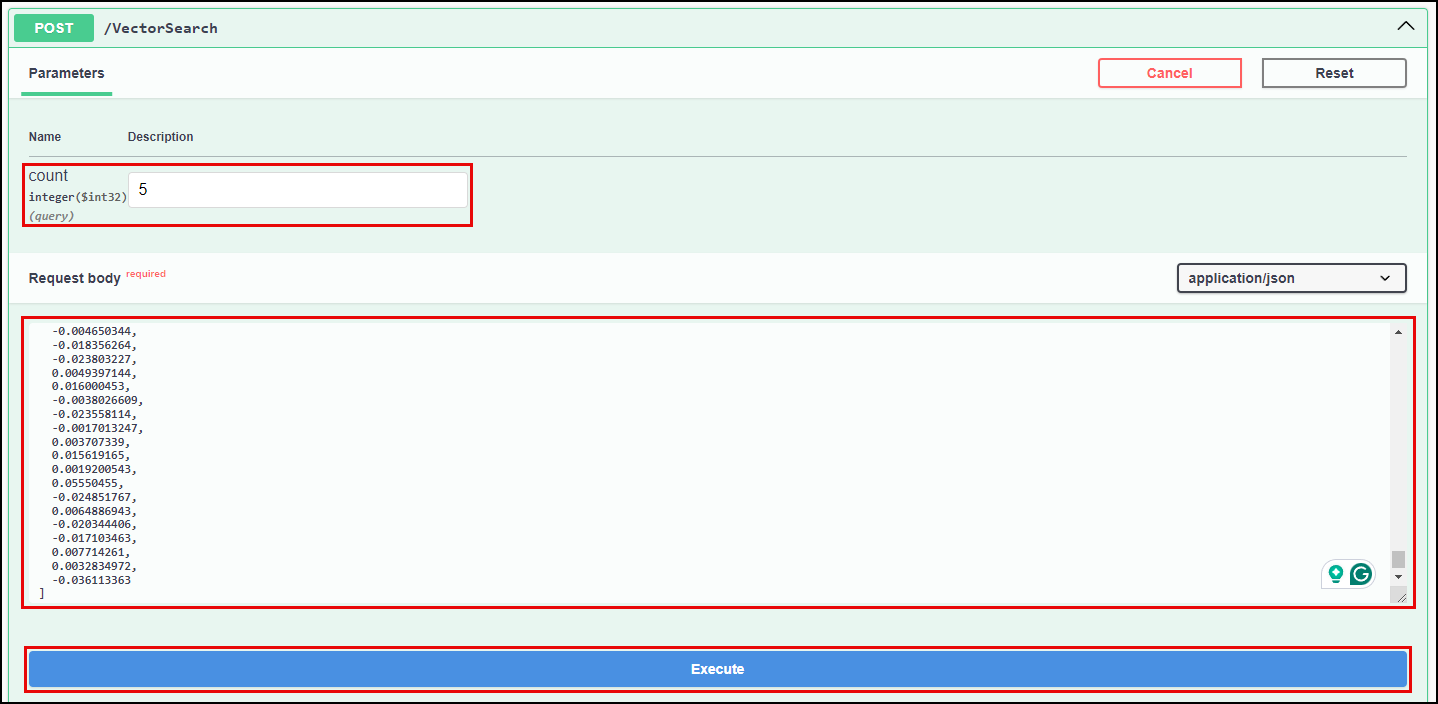
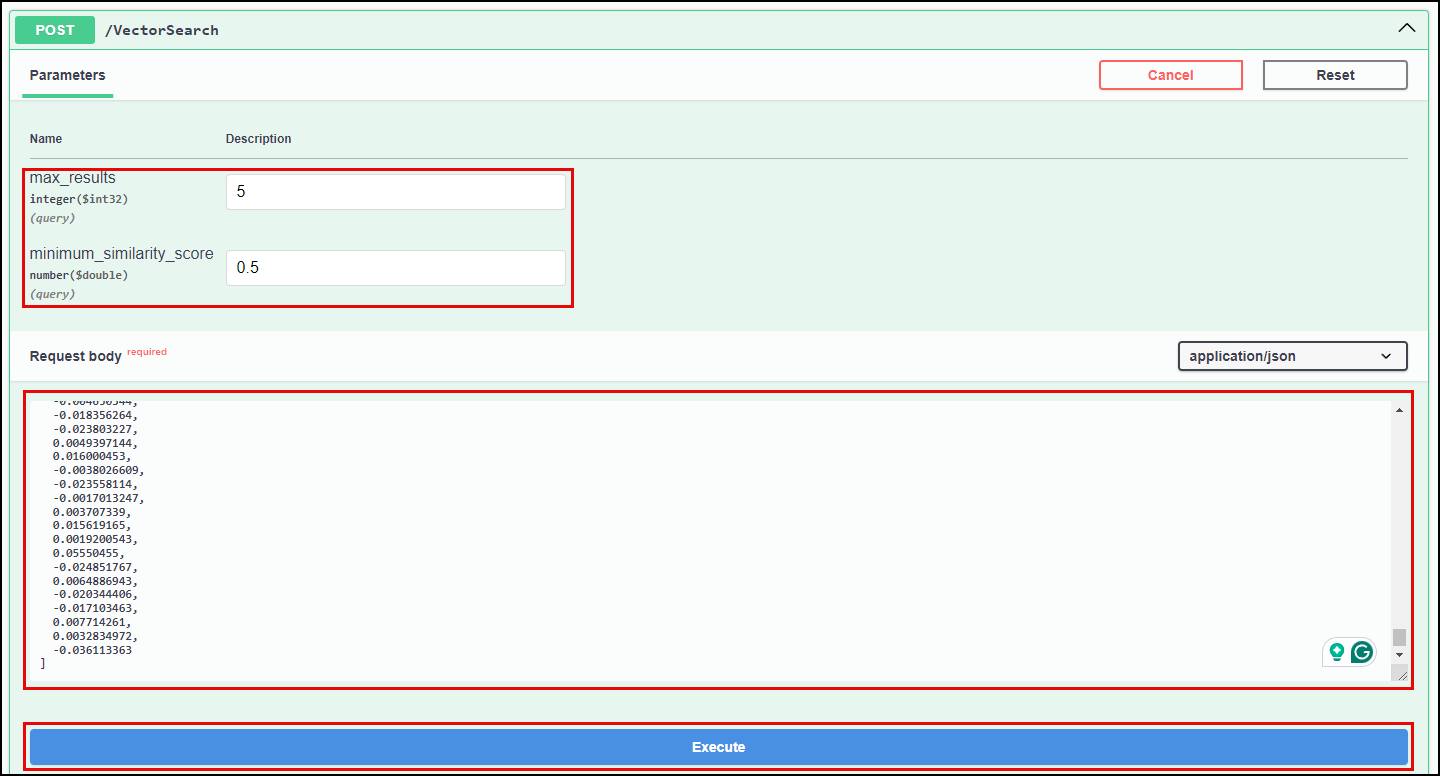
Updates to exercise 3 search screen and functionality

Changed region(s): [[0.0, 0.0, 1.0, 1.0]]

diff --git a/src/ContosoSuitesDashboard/pages/3_Vector_Search.py b/src/ContosoSuitesDashboard/pages/3_Vector_Search.py
@@ -9,11 +9,11 @@ def handle_query_vectorization(query):
     response = requests.get(f"{api_endpoint}/Vectorize", params={"text": query}, timeout=10, verify=False)
     return response.text
 
-def handle_vector_search(query_vector, count):
+def handle_vector_search(query_vector, max_results=5, minimum_similarity_score=0.8):
     """Perform a vector search using the VectorSearch endpoint."""
     api_endpoint = st.secrets["api"]["endpoint"]
     headers = {"Content-Type": "application/json"}
-    response = requests.post(f"{api_endpoint}/VectorSearch", data=query_vector, params={"count": count}, headers=headers, timeout=10, verify=False)
+    response = requests.post(f"{api_endpoint}/VectorSearch", data=query_vector, params={"max_results": max_results, "minimum_similarity_score": minimum_similarity_score}, headers=headers, timeout=10, verify=False)
     return response
 
 def main():
@@ -32,29 +32,30 @@ def main():
     )
 
     # Await a user message and handle the chat prompt when it comes in.
-    col1, col2, col3 = st.columns(3)
+    col1, col2 = st.columns(2)
 
     with col1:
         query = st.text_input("Search query:", key="query")
     with col2:
-        results_count = st.text_input("Number of results to return (0 will return all results):", key="results_count", value=0)
+        max_results = st.text_input("Max results (<=0 will return all results):", key="max_results", value=0)
+
+    minimum_similarity_score = st.slider("Minimum Similarity Score:", min_value=0.0, max_value=1.0, value=0.8, step=0.01)
     
     if st.button("Submit"):
         with st.spinner("Performing vector search..."):
             if query:
                 # Vectorize the query text.
                 # Exercise 3 Task 3 TODO #4: Get the vectorized query text by calling handle_query_vectorization.
-
+                
                 # Perform the vector search.
                 # Exercise 3 Task 3 TODO #5: Get the vector search results by calling handle_vector_search.
-
+                
                 # Display the results.
                 st.write("## Results")
                 # Exercise 3 Task 3 TODO #6: Display the results as a table.
-
+                
             else:
                 st.warning("Please enter a query.")
-
 
 if __name__ == "__main__":
     main()

diff --git a/src/ContosoSuitesWebAPI/Services/VectorizationService.cs b/src/ContosoSuitesWebAPI/Services/VectorizationService.cs
@@ -31,12 +31,13 @@ namespace ContosoSuitesWebAPI.Services
         }
 
         // Exercise 3 Task 3 TODO #2: Uncomment the following code block to execute a vector search query against Cosmos DB.
-        //public async Task<List<VectorSearchResult>> ExecuteVectorSearch(float[] queryVector, int count = 0)
+        //public async Task<List<VectorSearchResult>> ExecuteVectorSearch(float[] queryVector, int max_results = 0, double minimum_similarity_score = 0.8)
         //{
         //    var db = _cosmosCient.GetDatabase(configuration.GetValue<string>("COSMOS_DATABASE_NAME") ?? "ContosoSuites");
         //    var container = db.GetContainer(configuration.GetValue<string>("MAINTENANCE_REQUESTS_CONTAINER_NAME") ?? "MaintenanceRequests");
 
         //    var query = $"SELECT c.hotel_id AS HotelId, c.hotel AS Hotel, c.details AS Details, c.source AS Source, VectorDistance(c.request_vector, [{string.Join(",", queryVector)}]) AS SimilarityScore FROM c";
+        //    query += $" WHERE VectorDistance(c.request_vector, [{string.Join(",", queryVector)}]) > {minimum_similarity_score}";
         //    query += $" ORDER BY VectorDistance(c.request_vector, [{string.Join(",", queryVector)}])";
 
         //    var results = new List<VectorSearchResult>();
@@ -44,12 +45,12 @@ namespace ContosoSuitesWebAPI.Services
         //    using var feedIterator = container.GetItemQueryIterator<VectorSearchResult>(new QueryDefinition(query));
         //    while (feedIterator.HasMoreResults)
         //    {
-        //        foreach(var item in await feedIterator.ReadNextAsync())
+        //        foreach (var item in await feedIterator.ReadNextAsync())
         //        {
         //            results.Add(item);
         //        }
         //    }
-        //    return count > 0 ? results.Take(count).ToList() : [.. results];
+        //    return max_results > 0 ? results.Take(max_results).ToList() : [.. results];
         //}
     }
 }

diff --git a/src/ContosoSuitesWebAPI/Program.cs b/src/ContosoSuitesWebAPI/Program.cs
@@ -104,7 +104,7 @@ app.MapGet("/Vectorize", async (string text, [FromServices] IVectorizationServic
     .WithName("Vectorize")
     .WithOpenApi();
 
-app.MapPost("/VectorSearch", async ([FromBody] float[] queryVector, [FromServices] IVectorizationService vectorizationService, int count = 0) =>
+app.MapPost("/VectorSearch", async ([FromBody] float[] queryVector, [FromServices] IVectorizationService vectorizationService, int max_results = 0, double minimum_similarity_score = 0.8) =>
 {
     // Exercise 3 Task 3 TODO #3: Insert code to call the ExecuteVectorSearch function on the Vectorization Service. Don't forget to remove the NotImplementedException.
     throw new NotImplementedException();

diff --git a/src/ContosoSuitesWebAPI/Services/IVectorizationService.cs b/src/ContosoSuitesWebAPI/Services/IVectorizationService.cs
@@ -7,6 +7,6 @@ namespace ContosoSuitesWebAPI.Services
         Task<float[]> GetEmbeddings(string text); 
 
         // Exercise 3 Task 3 TODO #1: Uncomment the following line of code to provide an execute a vector search method against Cosmos DB.
-        //Task<List<VectorSearchResult>> ExecuteVectorSearch(float[] queryVector, int count = 0);
+        //Task<List<VectorSearchResult>> ExecuteVectorSearch(float[] queryVector, int max_results = 0, double minimum_similarity_score = 0.8);
     }
 }

diff --git a/docs/03_implement_vector_search_in_cosmos_db_nosql/0303.md b/docs/03_implement_vector_search_in_cosmos_db_nosql/0303.md
@@ -18,18 +18,20 @@ In the previous task, you added vector embeddings to property maintenance reques
 The key tasks are as follows:
 
 1. Generate query text embeddings using the `/Vectorize` endpoint of the ContosoSuitesWebAPI.
-2. Provide a method named `ExecuteVectorSearch` in the `VectorizationService` for executing a vector search query against Azure Cosmos DB. The method should accept vectorized query text (named `queryVector`) and a results count (named `count`) and execute a query using the `VectorDistance()` function. It should return a list of `VectorSearchResult` objects. The count should limit the number of results returned. The query executed in Cosmos DB should use the following pattern:
+2. Provide a method named `ExecuteVectorSearch` in the `VectorizationService` for executing a vector search query against Azure Cosmos DB. The method should accept vectorized query text (named `queryVector`), the maximum number of results to return (named `max_results`), and the minimum similarity score (named `minimum_similarity_score`) and execute a query using the `VectorDistance()` function. It should return a list of `VectorSearchResult` objects. The count should limit the number of results returned. The query executed in Cosmos DB should use the following pattern:
 
     ```csharp
     var query = $"SELECT c.hotel_id AS HotelId, c.hotel AS Hotel, c.details AS Details, c.source AS Source, VectorDistance(c.request_vector, [{string.Join(",", queryVector)}]) AS SimilarityScore FROM c";
+    query += $" WHERE VectorDistance(c.request_vector, [{string.Join(",", queryVector)}]) > {minimum_similarity_score}";
     query += $" ORDER BY VectorDistance(c.request_vector, [{string.Join(",", queryVector)}])";
     ```
 
 3. Update the `/VectorSearch` route handler in the `Program.cs` file to call the `ExecuteVectorSearch` method on the `VectorizationService` and return the results.
 4. Implement vector search capabilities to the UI and submit the following queries for maintenance requests:
-   - Set the search query to "Show me rooms where the air conditioning unit is malfunctioning" and enter 6 as the result count.
-   - Search for "Rooms at the Oceanview Inn where there are air conditioning issues" and enter 4 as the number of results to return.
-   - Find for any fire safety requests using the search query, "Are there any requests pertaining to fire safety at any hotels?" Set the number of results to 5.
+    - Set the search query to "Show me rooms where the air conditioning unit is malfunctioning" and enter 10 as the max result count and select a minimum similarity score of 0.80.
+    - Execute the same query a second time, this time setting the minimum similarity score to 0.82 and observe how that setting can be used to reduce the number of irrelevant results.
+    - Search for "Rooms at the Oceanview Inn where there are air conditioning issues" and enter 5 as the maximum number of results to return and set the minimum similarity score slider to 0.85.
+    - Find for any fire safety requests using the search query, "Are there any requests pertaining to fire and safety equipment at any hotels?" Set the max results to 10.
 
 ## Success Criteria
 
@@ -107,7 +109,7 @@ The key tasks are as follows:
   - Open the `Program.cs` file in the `src\ContosoSuitesWebAPI` folder, locate the `app.MapPost("/VectorSearch"...)` route handler, and complete `Exercise 3 Task 3 TODO #3` by writing code to call the `ExecuteVectorSearch` method on the `VectorizationService` and returning the results. The body of the route handler should contain the following or similar code:
 
     ```csharp
-    var results = await vectorizationService.ExecuteVectorSearch(queryVector, count);
+    var results = await vectorizationService.ExecuteVectorSearch(queryVector, max_results, minimum_similarity_score);
     return results;
     ```
 
@@ -121,10 +123,11 @@ The key tasks are as follows:
   - On the Swagger UI page, use the `/Vectorize` endpoint to generate embeddings for the query text "rooms where the air conditioning is not working", as you did previously.
   - Copy the entire response body, include the opening and closing square brackets.
   - Expand the `/VectorSearch` endpoint block and select **Try it out**.
-  - Enter "5" into the `count` parameter box.
+  - Enter "5" into the `max_results` parameter box.
+  - Enter "0.5" into the `minimum_similarity_score` parameter box.
   - Paste the vector embeddings you copied from the output of the `/Vectorize` endpoint into the `Request body` block, and select **Execute**.
 
-    ![The inputs into the count and request body boxes are highlighted in the VectorSearch block, and the Execute button is highlighted.](../../media/Solution/0303-web-api-swagger-vector-search-execute.png)
+    ![The inputs into the max_results, minimum_similarity_score, and request body boxes are highlighted in the VectorSearch block, and the Execute button is highlighted.](../../media/Solution/0303-web-api-swagger-vector-search-execute.png)
 
   - Ensure the response body contains a collection of `VectorSearchResult` objects. The output should look similar to the following:
 
@@ -179,20 +182,20 @@ The key tasks are as follows:
 
       ```python
       if st.button("Submit"):
-      with st.spinner("Performing vector search..."):
-          if query:
-              # Vectorize the query text.
-              # Exercise 3 Task 3 TODO #4: Get the vectorized query text by calling handle_query_vectorization.
-              query_vector = handle_query_vectorization(query)
-              # Perform the vector search.
-              # Exercise 3 Task 3 TODO #5: Get the vector search results by calling handle_vector_search.
-              vector_search_results = handle_vector_search(query_vector, results_count)
-              # Display the results.
-              st.write("## Results")
-              # Exercise 3 Task 3 TODO #6: Display the results as a table.
-              st.table(vector_search_results.json())
-          else:
-              st.warning("Please enter a query.")
+        with st.spinner("Performing vector search..."):
+            if query:
+                # Vectorize the query text.
+                # Exercise 3 Task 3 TODO #4: Get the vectorized query text by calling handle_query_vectorization.
+                query_vector = handle_query_vectorization(query)
+                # Perform the vector search.
+                # Exercise 3 Task 3 TODO #5: Get the vector search results by calling handle_vector_search.
+                vector_search_results = handle_vector_search(query_vector, max_results, minimum_similarity_score)
+                # Display the results.
+                st.write("## Results")
+                # Exercise 3 Task 3 TODO #6: Display the results as a table.
+                st.table(vector_search_results.json())
+            else:
+                st.warning("Please enter a query.")
       ```
 
       {: .note }
@@ -205,8 +208,9 @@ The key tasks are as follows:
     ```
 
 - Navigate to the **Vector Search** page using the left-hand menu in the browser windows that opens, and then submit the following queries for maintenance requests and observe the results:
-  - Set the search query to "Show me rooms where the air conditioning unit is malfunctioning" and enter 6 as the result count.
-  - Search for "Rooms at the Oceanview Inn where there are air conditioning issues" and enter 4 as the number of results to return.
-  - Find for any fire safety requests using the search query, "Are there any requests pertaining to fire safety at any hotels?" Set the number of results to 5.
+  - Set the search query to "Show me rooms where the air conditioning unit is malfunctioning" and enter 10 as the max result count and select a minimum similarity score of 0.80.
+  - Execute the same query a second time, this time setting the minimum similarity score to 0.82 and observe how that setting can be used to reduce the number of irrelevant results.
+  - Search for "Rooms at the Oceanview Inn where there are air conditioning issues" and enter 5 as the maximum number of results to return and set the minimum similarity score slider to 0.85.
+  - Find for any fire safety requests using the search query, "Are there any requests pertaining to fire and safety equipment at any hotels?" Set the max results to 10.
 
 </details>

diff --git a/docs/05_enhance_api_with_semantic_kernel/0501.md b/docs/05_enhance_api_with_semantic_kernel/0501.md
@@ -11,6 +11,36 @@ parent: 'Exercise 05: Enhance the API with Semantic Kernel orchestration'
 
 TODO: Add `AddAzureOpenAITextEmbeddingGeneration(embeddingDeploymentName, endpoint, key)` to the `Kernel` singleton builder call added in Exercise 2 Task 2 (line 224 of the 0202.MD file), so the query text embedding functionality used in exercise 3 can be updated to use Semantic Kernel.
 
+The builder with this new line will initialize and inject a built-in services from the Azure OpenAI Service. This Text Embedding service generates vectors used to perform vector searches against the Cosmos DB `MaintenanceRequests` container you implemented earlier.
+
+- The steps to update the `VectorizationService` to use the built-it vector embeddings capabilities of Semantic Kernel:
+  - Change the primary constructor for the `VectorizationService` to swap out the use of `AzureOpenAIClient` for Semantic Kernel.
+
+    ```csharp
+    public class VectorizationService(Kernel kernel, CosmosClient cosmosCient, IConfiguration configuration) : IVectorizationService
+    ```
+
+  - Replace the `_client` class variable with one that uses Semantic Kernel.
+
+    ```csharp
+    private readonly Kernel _kernel = kernel;
+    ```
+
+  - Remove the `embeddingClient` variable, as it is no longer necessary.
+  - Replace the call to the embedding client for the built-in `GenerateEmbeddingAsync()` method of Semantic Kernel.
+
+    ```csharp
+    #pragma warning disable SKEXP0010 // Type is for evaluation purposes only and is subject to change or removal in future updates. Suppress this diagnostic to proceed.
+        // Generate a vector for the provided text.
+        var embeddings = await _kernel.GetRequiredService<ITextEmbeddingGenerationService>().GenerateEmbeddingAsync(text);
+    #pragma warning restore SKEXP0010
+
+    // Return the vector embeddings.
+    var vector = embeddings.ToArray();
+    ```
+
+  - 
+
 
 
 In the previous exercise, we used the Azure AI Services Speech service's `recognize_once_async()` method to perform basic speech-to-text for an utterance, sending the resulting text to the Azure OpenAI Service. This approach works for short phrases of up to approximately 15 seconds. For longer recordings or dialogues, we will need to use the transcription option built into the Speech service. In this task, we will enable the Contoso Suites call center to transcribe customer calls in an offline fashion.
